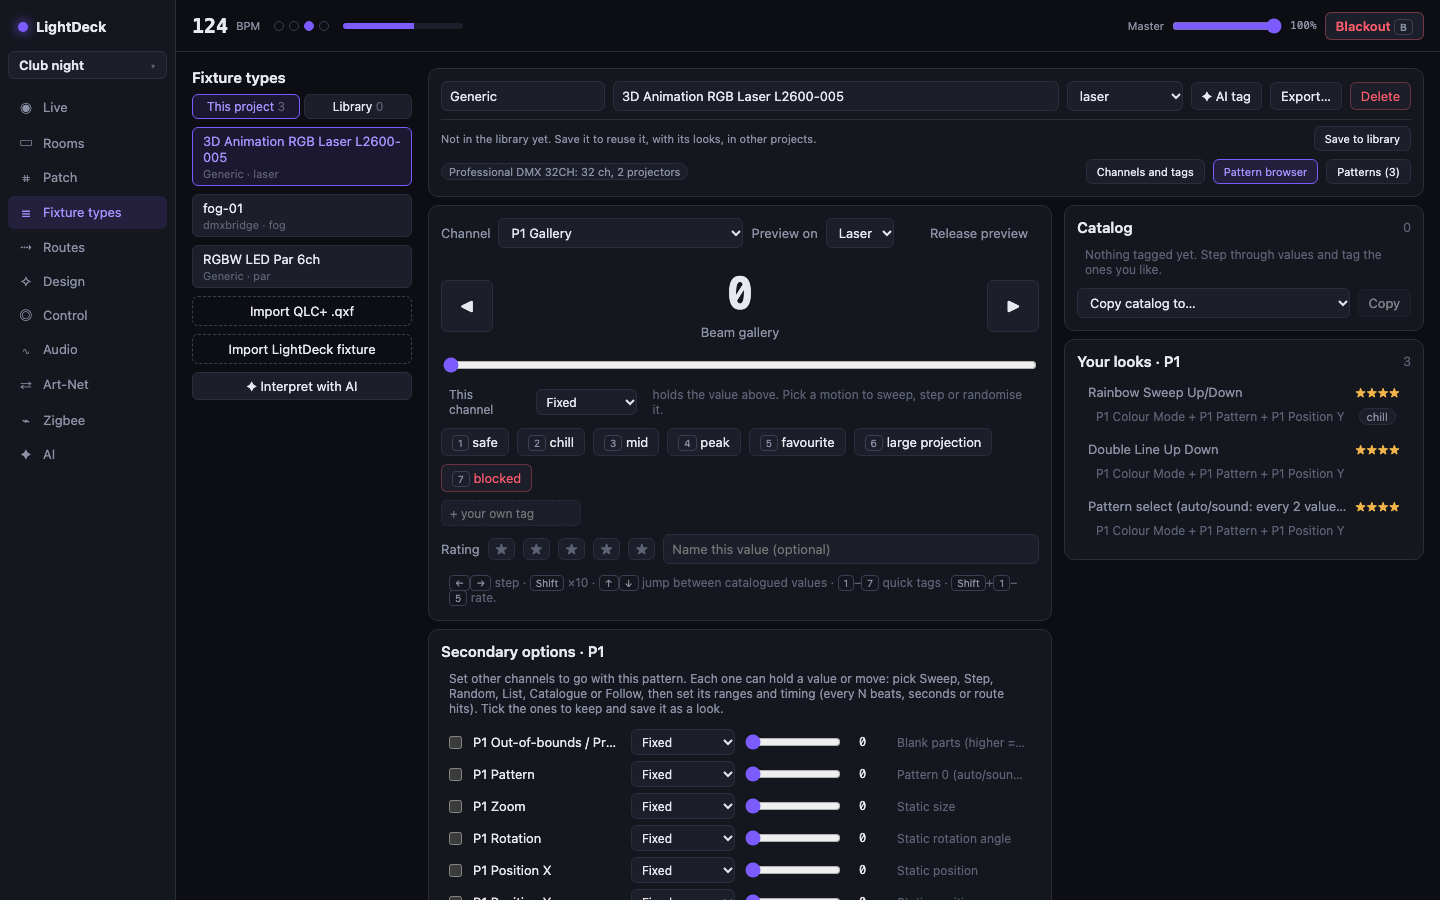
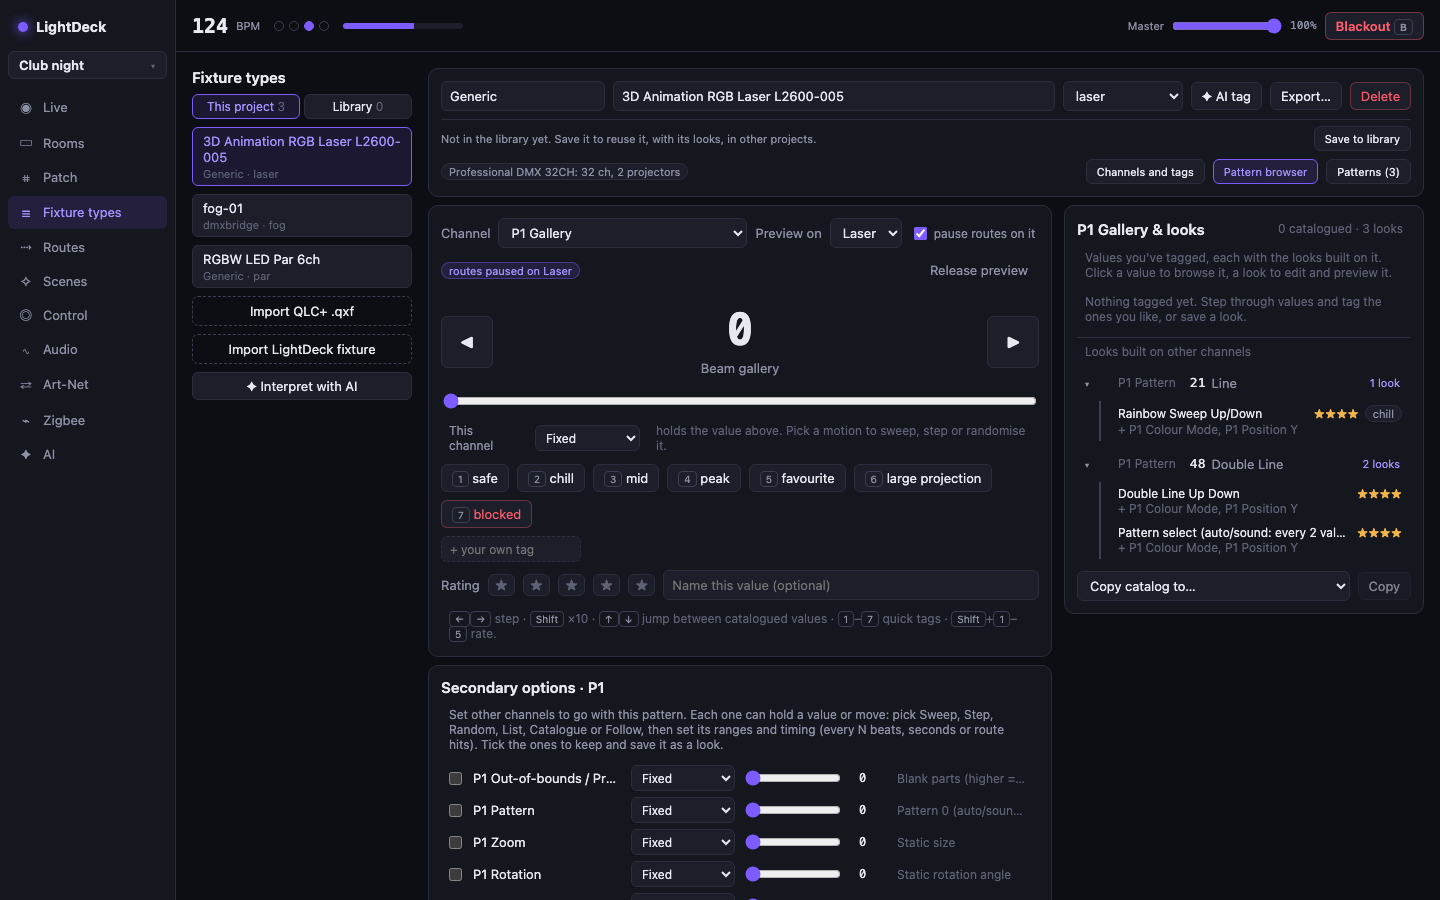
docs: update screenshots and feature copy for scenes and routes

diff --git a/docs/features.md b/docs/features.md
@@ -11,8 +11,11 @@ Everything LightDeck does today, by area. Each heading links to the guide with t
 - **Tags on values and ranges.** Mark values as *blocked*, *safe*, *peak*, *chill* and so on. Routes and limits use the tags.
 - **Multi-head fixtures.** Fixtures with several projectors (P1/P2 lasers) show, route and store looks for each head separately. Looks map across heads by channel name.
 - **Pattern browser.** Step through a laser's values on the real device with the keyboard. Tag them, rate them and save the ones you like as looks.
+  - While it's open it takes over the preview fixture: routes and the playing scene pause on it, so it shows only what you set, and get it back when you leave.
+  - Catalogued values and looks are one list, with each look nested under the value it's built on. **Update look** saves into a look; on another value, **Save as new** leaves the original as it was.
+  - Ticked secondary channels save the value they show (0 included); unticked ones are left alone. Looks never switch a head's on/off channel on by themselves.
 - **Looks.** A look is a pattern plus secondary options (zoom, rotation, colour…), saved per fixture type. Looks can be grouped into sets (*drop*, *calm*…), and channels in a look can move: sweeps, steps, random values, lists, catalogue picks or follow-the-level, timed by the beat, by seconds or by hits.
-- **Look routes.** Apply saved looks picked by set, tags or name, randomly by rating or in order, *hold at least*, *change after at most*, rests (no look for a while) and the route's every-N / cooldown / chance timing. **Follow the section** picks looks tagged `breakdown`, `groove`, `build` or `drop` for the part of the track playing.
+- **Look routes.** Apply saved looks picked by set, tags or name, randomly by rating or in order, *hold at least*, *change after at most*, rests (no look for a while) and the route's every-N / cooldown / chance timing. **Follow the section** picks looks tagged `breakdown`, `groove`, `build` or `drop` for the part of the track playing. **Plays on** uses the head each look was saved on, one head, or every head. Look pickers group looks by pattern, best rated first.
 - **Fixture library.** Keep fixture types and their looks in an app-wide library. Projects keep their own copy and merge updates both ways, so venue-only looks survive.
 - **`.lightdeck-fixture` files.** Export a fixture type with its looks to share it, then import it into another library or project.
 - **Beam angle per type.** Read from QLC+ lens data, set by hand, or a sensible default for the kind.
@@ -87,7 +90,7 @@ Everything LightDeck does today, by area. Each heading links to the guide with t
   - **Twinkle:** sparkles over a dim base that cluster near a focus point.
   - **Wave:** moves left to right, front to back, out from a focus point, around it, or low to high, in time with the beat.
   - **Fade with distance:** any effect lights an area around a focus point instead of the whole room.
-- **Timing and chance.** Act on every Nth hit, with a cooldown, with a chance, and only in some sections of a track.
+- **Timing and chance.** Act on every Nth hit, with a cooldown, with a chance (as a percentage), and only in some sections of a track (**plays in**). A route that's switched on waits for the next hit rather than firing on a stale one.
 - **Palettes.** Six built-in palettes (Club, Sunset, Ice, Rainbow, Forest, White), plus your own.
 - **Organisation:**
   - route groups, with *All on* / *All off*;
@@ -97,7 +100,7 @@ Everything LightDeck does today, by area. Each heading links to the guide with t
 
 ## Live control ([guide](control.md))
 
-- **Scenes.** Switch route groups with *On*, *Off* or *Leave* per group. Presets also hold hand-set channel values.
+- **Presets.** Save hand-set channel values (Patch sliders, pattern browser, channel faders), optionally with route states, and recall them from a pad or key. Scenes are on the [Scenes screen](scenes.md).
 - **MIDI and keyboard mappings** with Learn:
   - **Actions:** route or group on/off, recall a scene or preset, autopilot on/off, hold a section, blackout, master, set a channel (or move it with a fader), mute bands, band sensitivity, release manual control.
   - **Button modes:** toggle, while held, on, off or fader.
@@ -135,4 +138,4 @@ Everything LightDeck does today, by area. Each heading links to the guide with t
 
 - **Native desktop app.** Built with Tauri 2: a Rust engine and a Svelte 5 UI.
 - **Installers.** macOS (Apple Silicon and Intel), Windows and Linux, built by GitHub Actions on every `v*` tag.
-- **Tests.** TypeScript tests for the designer, genres, scenes, controllers, templates, blocks, library and aiming. Rust tests for the engine, effects, importer, Zigbee, MIDI and AI designer.
+- **Tests.** TypeScript tests for the designer, genres, scenes, controllers, templates, blocks, library and aiming. Rust tests for the engine, effects, importer, Zigbee, MIDI, pad feedback, autopilot and AI designer.

diff --git a/README.md b/README.md
@@ -23,8 +23,10 @@ Built with [Tauri 2](https://tauri.app) (Rust engine) and Svelte 5 (UI). Develop
 - **Rooms and layout:** draw rooms to scale, place fixtures with height and direction, aim lights at the floor, ceiling or an angle and see where each beam lands (effects then work from the lit spots), use several rooms per project, and add **focus points** (DJ booth, dance floor) that effects ripple out from, rotate around or fade with distance from.
 - **Audio detection:** configurable bands on a live spectrum (Kick, Bass, Snare, Vocals, Hi-hat by default; add your own). A band can listen to several frequency ranges, and each has its own gain, sensitivity and detection mode. LightDeck also tracks BPM and the beat.
 - **Routes:** connect a sound (a hit or a level) to an action on fixtures.
-  - Channel actions: flash, random value from your catalogue, node hop (nearest neighbour in 3D), modulate, cycle.
+  - Channel actions: flash, random value from your catalogue, node hop (nearest neighbour in 3D), modulate, cycle, move (sweep, step, random, list or follow, with fixtures chasing each other) and saved laser looks.
   - Effects: strobe, colour palette, twinkle, wave. These drive each fixture's brightness and colour automatically.
+  - Any route can also move other channels on its fixtures (a kick flash that sweeps the zoom open), or switch other routes on or off for a number of beats.
+  - Routes can play only in some sections of a track (breakdown, groove, build, drop).
   - Targets are picked room first, then groups or devices, then channel.
 - **Limits that always apply:** lock values, clamp ranges, hold times and blocked values keep a laser below a low ceiling and away from its built-in auto/sound modes, whatever the routes do.
 - **Scenes and the autopilot:** a scene switches the whole rig at once (each group in a saved look, with the routes you want running on top), set up per group or captured from the rig as it is. Make scenes from building blocks (colour hits, waves, strobe, laser looks, fog bursts…), from offline templates (club night, party, chill, rig test) or by describing the night to the AI. LightDeck hears breakdowns, grooves, builds and drops: blocks can play only in some sections or change in them (strobe and peak lasers only in the drop), limits per section cap brightness or stop strobe and fog, and the autopilot switches to the scenes tagged for each section, bar by bar.
@@ -42,9 +44,9 @@ Planned work includes pixel bars and LED strips with per-cell effects, a starter
 
 | | |
 |---|---|
-| [![Routes](docs/images/routes.png)](docs/images/routes.png) **Routes** connect hits and levels to channel actions and effects, grouped and targeted by room, group or device. | [![Audio](docs/images/audio.png)](docs/images/audio.png) **Audio** detection bands drawn on a live spectrum, with an onset trace for tuning hits. |
+| [![Routes](docs/images/routes.png)](docs/images/routes.png) **Routes** connect hits and levels to channel actions and effects, targeted by room, group or device, and can also move other channels or switch other routes. | [![Audio](docs/images/audio.png)](docs/images/audio.png) **Audio** detection bands drawn on a live spectrum, with an onset trace for tuning hits. |
 | [![Rooms](docs/images/rooms.png)](docs/images/rooms.png) **Rooms** drawn to scale, with fixtures, beam directions and focus points. | [![Pattern browser](docs/images/browser.png)](docs/images/browser.png) **Pattern browser** steps through a laser's values on the real device so you can tag, rate and save looks. |
-| [![Control](docs/images/control.png)](docs/images/control.png) **Control** maps MIDI pads, faders and keys to routes, presets, master and blackout. | [![Scenes](docs/images/design.png)](docs/images/design.png) **Scenes** adds scenes from templates or an AI brief, for review before adding, next to the autopilot and your scenes. |
+| [![Control](docs/images/control.png)](docs/images/control.png) **Control** maps MIDI pads, faders and keys to scenes, routes, the autopilot, master and blackout, with pads lit to match. | [![Scenes](docs/images/scenes.png)](docs/images/scenes.png) **Scenes** set a look and routes for each group, tagged for the autopilot, with templates or the AI to make more. |
 
 Screenshots use the built-in demo show (see [Development](#development)).
 

diff --git a/docs/scenes.md b/docs/scenes.md
@@ -8,6 +8,8 @@ The **Scenes** screen is where a show's scenes are made, edited and played:
 
 A scene is a **state of the whole rig** that one press switches to: every group in a look, with the routes you want running on top. For example, *Node mode*: pars on node hop to the kick with the wash routes off, lasers on a look tagged "node" with their rotation route on, fog off. Recall it from here, Live, or a pad or key, and every fixture changes together.
 
+![The Scenes screen: the autopilot bar on top, the scene list on the left, and the selected scene's rig on the right, with a look and routes for each fixture group](images/scenes.png)
+
 ## The rig in this scene
 
 The scene page lists your rig: **Whole rig** (routes aimed at everything), each fixture group, then any fixtures that aren't in a group. For each one:
@@ -146,6 +148,8 @@ Templates read the rig:
 ## Asking the AI
 
 **+ From template or AI… → Ask the AI** has two jobs. Both need an AI provider (set one up on the **AI** screen).
+
+![Asking the AI for new scenes: a brief, a genre, and the proposed scenes for review](images/scenes-add.png)
 
 - **New scenes**: describe the night and pick a genre. The AI proposes detection tuning, palettes, routes grouped into scenes, and the scenes, tagged for the autopilot and using per-section routes where it suits (strobe only on drops, say).
 - **Set up the autopilot**: the AI looks at what each of your scenes switches on and suggests scene tags, when to switch, and limits per section. You see the changes and **Apply** them; **Undo suggestion** puts things back.
